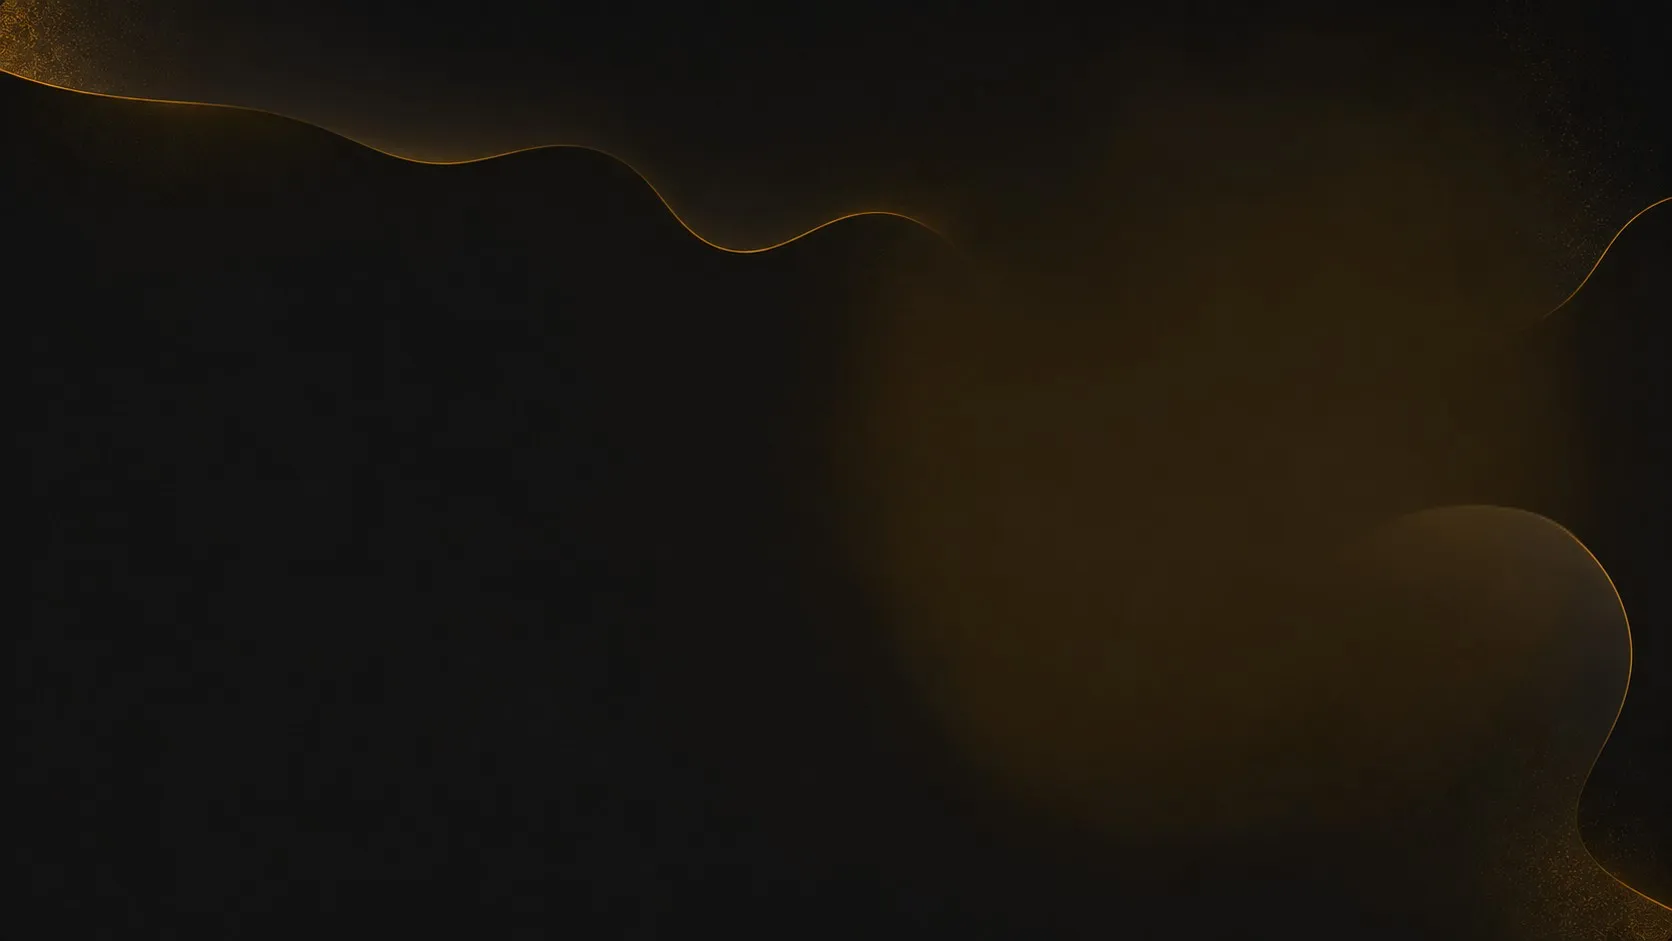
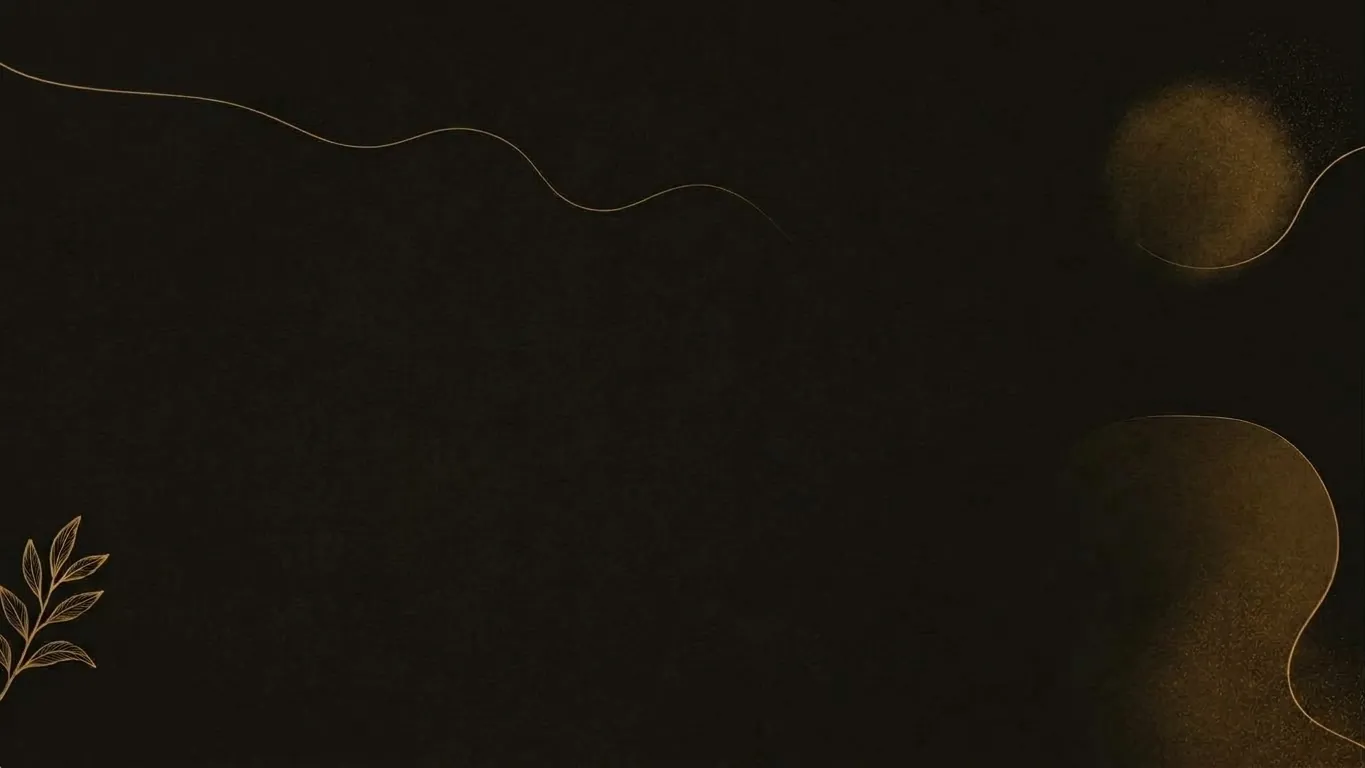
style(accueil): nouveau fond sombre et espacement des sections
Image de fond sombre remplacée (WebP, 19 Ko), couleur de fond du thème sombre assombrie, sections de l'accueil espacées par un conteneur commun.

diff --git a/client/src/app/(public)/page.tsx b/client/src/app/(public)/page.tsx
@@ -30,91 +30,93 @@ export default function Home() {
           cascade) : il est visible d'emblée, il n'a rien à révéler au scroll. */}
       <Hero />
 
-      <div className="relative">
-        <div
-          aria-hidden="true"
-          className="pointer-events-none absolute -left-7 top-50 z-20 hidden h-96 w-48 -translate-y-1/2 sm:h-112 sm:w-56 xl:block"
-        >
-          <Image
-            src="/sauces.png"
-            alt=""
-            fill
-            sizes={DECO_SIZES}
-            className="rounded-2xl object-cover object-center"
-          />
+      <div className="flex flex-col gap-20 py-20">
+        <div className="relative">
+          <div
+            aria-hidden="true"
+            className="pointer-events-none absolute -left-7 top-50 z-20 hidden h-96 w-48 -translate-y-1/2 sm:h-112 sm:w-56 xl:block"
+          >
+            <Image
+              src="/sauces.png"
+              alt=""
+              fill
+              sizes={DECO_SIZES}
+              className="rounded-2xl object-cover object-center"
+            />
+          </div>
         </div>
-      </div>
 
-      <Reveal delay={REVEAL_DELAY_MS}>
-        <BestSellers />
-      </Reveal>
+        <Reveal delay={REVEAL_DELAY_MS}>
+          <BestSellers />
+        </Reveal>
 
-      <div className="relative">
-        <div
-          aria-hidden="true"
-          className="pointer-events-none absolute -right-4 top-70 z-20 hidden -translate-y-1/2 sm:h-240 sm:w-56 xl:block"
-        >
-          {/* Pas de `priority` : ces images sont purement ornementales et
+        <div className="relative">
+          <div
+            aria-hidden="true"
+            className="pointer-events-none absolute -right-4 top-70 z-20 hidden -translate-y-1/2 sm:h-240 sm:w-56 xl:block"
+          >
+            {/* Pas de `priority` : ces images sont purement ornementales et
               masquées sous xl. Les précharger volait la priorité de la photo
               du hero, qui est le vrai contenu de la page. */}
-          <Image
-            src="/deco.png"
-            alt=""
-            fill
-            sizes={DECO_SIZES}
-            className="object-contain object-center"
-          />
+            <Image
+              src="/deco.png"
+              alt=""
+              fill
+              sizes={DECO_SIZES}
+              className="object-contain object-center"
+            />
+          </div>
         </div>
-      </div>
 
-      <Reveal delay={REVEAL_DELAY_MS}>
-        <HowItWorks />
-      </Reveal>
+        <Reveal delay={REVEAL_DELAY_MS}>
+          <HowItWorks />
+        </Reveal>
 
-      {/* About suit HowItWorks sans décoration entre les deux : sur grand
+        {/* About suit HowItWorks sans décoration entre les deux : sur grand
           écran les deux entrent quasi ensemble dans le champ. Le retard
           supplémentaire les fait lire comme une séquence, pas un sursaut. */}
-      <Reveal delay={REVEAL_DELAY_MS + 150}>
-        <About />
-      </Reveal>
+        <Reveal delay={REVEAL_DELAY_MS + 150}>
+          <About />
+        </Reveal>
 
-      <div className="relative">
-        <div
-          aria-hidden="true"
-          className="pointer-events-none absolute -left-7 top-0 z-20 hidden -translate-y-1/2 sm:h-240 sm:w-56 xl:block"
-        >
-          <Image
-            src="/deco.png"
-            alt=""
-            fill
-            sizes={DECO_SIZES}
-            className="object-contain object-center"
-          />
+        <div className="relative">
+          <div
+            aria-hidden="true"
+            className="pointer-events-none absolute -left-7 top-0 z-20 hidden -translate-y-1/2 sm:h-240 sm:w-56 xl:block"
+          >
+            <Image
+              src="/deco.png"
+              alt=""
+              fill
+              sizes={DECO_SIZES}
+              className="object-contain object-center"
+            />
+          </div>
         </div>
-      </div>
 
-      <Reveal delay={REVEAL_DELAY_MS}>
-        <Testimonials />
-      </Reveal>
+        <Reveal delay={REVEAL_DELAY_MS}>
+          <Testimonials />
+        </Reveal>
 
-      <div className="relative">
-        <div
-          aria-hidden="true"
-          className="pointer-events-none absolute -right-7 top-125 z-20 hidden -translate-y-1/2 -scale-x-100 sm:h-112 sm:w-56 xl:block"
-        >
-          <Image
-            src="/sauces2.png"
-            alt=""
-            fill
-            sizes={DECO_SIZES}
-            className="rounded-2xl object-cover object-center"
-          />
+        <div className="relative">
+          <div
+            aria-hidden="true"
+            className="pointer-events-none absolute -right-7 top-125 z-20 hidden -translate-y-1/2 -scale-x-100 sm:h-112 sm:w-56 xl:block"
+          >
+            <Image
+              src="/sauces2.png"
+              alt=""
+              fill
+              sizes={DECO_SIZES}
+              className="rounded-2xl object-cover object-center"
+            />
+          </div>
         </div>
-      </div>
 
-      <Reveal delay={REVEAL_DELAY_MS}>
-        <Contact />
-      </Reveal>
+        <Reveal delay={REVEAL_DELAY_MS}>
+          <Contact />
+        </Reveal>
+      </div>
     </>
   );
 }

diff --git a/client/src/components/public/Contact.tsx b/client/src/components/public/Contact.tsx
@@ -4,11 +4,7 @@ import Link from "next/link";
 // en gardait sa propre copie, qui avait fini par écrire les horaires
 // autrement que la page Contact (« Lun – Jeu, Sam – Dim » contre « Samedi à
 // jeudi »).
-import {
-  OPENING_HOURS,
-  SOCIALS,
-  STORE_LOCATIONS,
-} from "@/config/locations";
+import { OPENING_HOURS, SOCIALS, STORE_LOCATIONS } from "@/config/locations";
 
 // Largeur d'AFFICHAGE de la photo, pas le poids du fichier : le navigateur
 // choisit la variante du srcset avec cette seule information, avant même
@@ -20,7 +16,7 @@ export function Contact() {
   return (
     <section
       id="contact"
-      className="relative isolate overflow-hidden px-2 sm:px-4 py-16 sm:py-20"
+      className="relative isolate overflow-hidden px-2 py-6 sm:px-4 "
     >
       <div className="mx-auto max-w-6xl rounded-4xl shadow-[0_0_25px_5px_rgba(217,169,77,0.45)] shadow-primary/30 backdrop-blur-md px-6 sm:px-2 py-6 background dark:bg-primary/30 border border-primary">
         <div className="mb-8 flex flex-col items-center gap-2 text-center sm:mb-10">

diff --git a/client/src/components/public/About.tsx b/client/src/components/public/About.tsx
@@ -118,7 +118,7 @@ export function About() {
     <section
       id="a-propos"
       ref={sectionRef}
-      className="relative isolate overflow-hidden contain-paint px-2 py-16 sm:px-8 sm:py-20"
+      className="relative isolate overflow-hidden contain-paint px-2 py-6 sm:px-8"
     >
       <div className="mx-auto flex flex-col lg:flex-row max-w-6xl items-center gap-8 rounded-4xl background dark:bg-primary/30 px-4 py-8 shadow-[0_0_25px_5px_rgba(217,169,77,0.45)] shadow-primary/30 backdrop-blur-2xl sm:gap-10 sm:px-8 sm:py-12  md:gap-16 border border-primary">
         <div className="flex flex-col items-center gap-4 text-center sm:text-left md:items-start">

diff --git a/client/src/components/public/BestSellers.tsx b/client/src/components/public/BestSellers.tsx
@@ -56,7 +56,7 @@ export function BestSellers() {
   return (
     <section
       id="menu"
-      className="relative bg-background isolate overflow-hidden px-2 py-16 sm:px-8"
+      className="relative isolate overflow-hidden px-2 py-6 sm:px-8"
     >
       <div className="relative z-10 mx-auto max-w-6xl rounded-4xl border border-primary background px-1 sm:px-4 py-4 shadow-[0_0_30px_5px_rgba(217,169,77,0.45)] shadow-primary/30 backdrop-blur-md dark:bg-primary/30 ">
         <div className="mb-8 flex flex-col items-center gap-4 text-center sm:mb-10 lg:flex-row lg:items-center lg:justify-center lg:px-6">

diff --git a/client/src/components/public/HowItWorks.tsx b/client/src/components/public/HowItWorks.tsx
@@ -33,7 +33,7 @@ export function HowItWorks() {
   return (
     <section
       id="comment-ca-marche"
-      className="relative isolate overflow-hidden px-2 py-16 sm:px-8 sm:py-20"
+      className="relative isolate overflow-hidden px-2 py-6 sm:px-8"
     >
       <div className="mx-auto max-w-6xl rounded-4xl background dark:bg-primary/30 px-4 py-8 shadow-[0_0_25px_5px_rgba(217,169,77,0.45)] shadow-primary/30 backdrop-blur-md sm:px-8 sm:py-12 border border-primary">
         <div className="mb-10 flex flex-col items-center gap-2 text-center sm:mb-14">

diff --git a/client/src/components/public/Testimonials.tsx b/client/src/components/public/Testimonials.tsx
@@ -125,7 +125,7 @@ export function Testimonials() {
   return (
     <section
       id="avis"
-      className="relative isolate overflow-hidden px-2 py-16 sm:px-8 sm:py-20"
+      className="relative isolate overflow-hidden px-2 py-6 sm:px-8 "
     >
       <div className="mx-auto max-w-4xl rounded-4xl background dark:bg-primary/30 px-4 py-8 shadow-[0_0_25px_5px_rgba(217,169,77,0.45)] shadow-primary/30 backdrop-blur-md sm:px-8 sm:py-12 border border-primary">
         <div className="mb-8 flex flex-col items-center gap-2 text-center sm:mb-10">

diff --git a/client/src/app/globals.css b/client/src/app/globals.css
@@ -49,7 +49,7 @@
 }
 
 .dark {
-  --background: #171412;
+  --background: #110e0c;
   --foreground: #ebe8b8;
 
   /* primary éclairci (#8a6107 → #b47f09) : sous le texte foncé on-primary il
@@ -236,7 +236,7 @@ button,
   background-size: cover;
   background-position: center;
   background-repeat: no-repeat;
-  transition: background-image 0.3s ease-in-out;
+  transition: background-image 0.6s ease-in-out;
 }
 
 /* Carte standard du dashboard : une seule définition pour toutes les cartes
